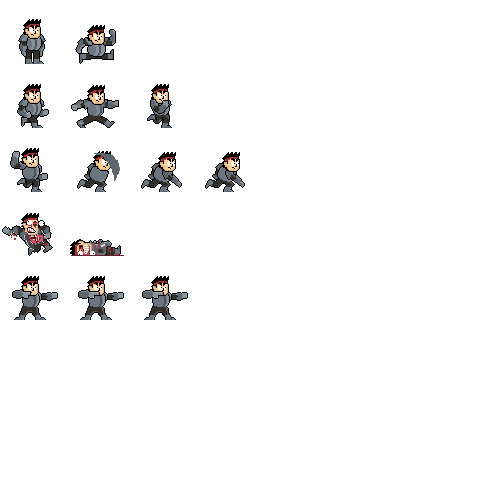
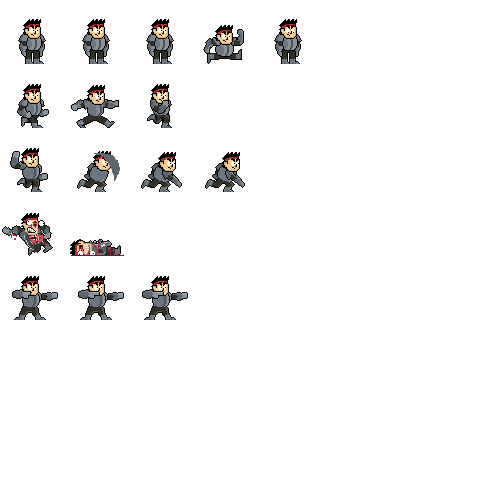
Amélioration des entités

diff --git a/platformer/javascript/world/MapObject.js b/platformer/javascript/world/MapObject.js
@@ -1,23 +1,35 @@
-function MapObject(level, x, y, width, height){
+function MapObject(level, x, y, width, height, renderWidth, renderHeight){
     Rectangle.call(this, x, y, width, height);
 
-    var self = this;
+    var DIRECTION_LEFT = 0;
+    var DIRECTION_RIGHT = 1;
+    var DIRECTION_UP = 2;
+    var DIRECTION_DOWN = 3;
 
-    var vx = 0,
-        vy = 0;
+    var self = this,
 
-    var gravityForce = 8;
+        vx = 0,
+        vy = 0,
 
-    var blockedLeft = false,
+        gravityForce = 8,
+
+        blockedLeft = false,
         blockedRight = false,
         blockedUp = false,
-        blockedDown = false;
+        blockedDown = false,
 
-    var falling = false;
-    var jumping = false;
-    var doubleJumping = false;
-    var canDoubleJump = false;
-    var canJump = true;
+        falling = false,
+        jumping = false,
+        doubleJumping = false,
+
+        canJump = true,
+
+        animation,
+
+        direction;
+
+    // liste des animations
+    this.animations = {};
 
     this.left = false;
     this.right = false;
@@ -45,11 +57,39 @@ function MapObject(level, x, y, width, height){
         self.y += platformer.math.toFloat(vy);
 
         fixBounds();
+
+        if(animation.canSkipAnimation()) this.animate();
+
+        if(animation != undefined){
+            animation.update();
+        }
+    }
+
+    this.init = function(){
+        for(var i in this.animations){
+            this.animations[i].init();
+        }
+
+        this.setAnimation(this.animations[Object.keys(this.animations)[0]]);
+    }
+
+    this.animate = function(){
+        // change animations
     }
 
     this.render = function(ctx, panX, panY){
-        ctx.fillStyle = 'purple';
-        ctx.fillRect(this.x - panX, this.y - panY, this.width, this.height);
+        var renderBox = this.getRenderBox();
+        var posX = (direction == 0) ? (renderBox.x + renderBox.width - panX) * -1 : renderBox.x - panX;
+
+        ctx.save();
+        ctx.scale((direction == 0) ? -1 : 1, 1);
+        ctx.drawImage(animation.getFrame() , posX, renderBox.y - panY, renderBox.width, renderBox.height);
+        ctx.restore();
+    }
+
+    this.draw = function(ctx, panX, panY){
+        ctx.strokeStyle = '#D9828C';
+        ctx.strokeRect(this.x - panX, this.y - panY, this.width, this.height);
     }
 
     function fixBounds(){
@@ -267,6 +307,24 @@ function MapObject(level, x, y, width, height){
         return (x >= 0 && x < map.getNumCols() && y >= 0 && y < map.getNumRows()) ? map.getTilemap()[x][y] : undefined;
     }
 
+    // setters
+
+    this.setAnimation = function(tmp){
+        if(tmp.constructor.name == 'Animation' && (typeof animation === 'undefined' || animation.getID() != tmp.getID())){
+            animation = tmp;
+        }
+    }
+    this.setDirection = function(d){
+        direction = d;
+    }
+
+    this.spawn = function(p){
+        this.x = p.x * platformer.tileSizeX;
+        this.y = p.y * platformer.tileSizeY + platformer.tileSizeY - this.height;
+    }
+
+    // getters
+
     this.isBlockedLeft = function(){ return blockedLeft; }
     this.isBlockedRight = function(){ return blockedRight; }
     this.isBlockedUp = function(){ return blockedUp; }
@@ -274,4 +332,9 @@ function MapObject(level, x, y, width, height){
 
     this.isFalling = function(){ return falling; }
     this.isJumping = function(){ return jumping; }
+    this.isDoubleJumping = function(){ return doubleJumping; }
+
+    this.getDirection = function(){ return direction; }
+
+    this.getRenderBox = function(){ return new Rectangle(this.x + this.width / 2 - renderWidth / 2, this.y + this.height - renderHeight, renderWidth, renderHeight); }
 }

diff --git a/platformer/javascript/entities/Player.js b/platformer/javascript/entities/Player.js
@@ -1,5 +1,5 @@
 function Player(level, position){
-    Entity.call(this, level, position, platformer.tileSizeX, platformer.tileSizeY);
+    Entity.call(this, level, position, 52, 80, 64 * platformer.scale, 64 * platformer.scale);
 
     this.property = {
         speed : 1,
@@ -11,6 +11,45 @@ function Player(level, position){
         doubleJumpHeight : 4
     };
 
+    this.animations = {
+        idle : new Animation('idle', platformer.textures.player.idle, 1000, { random : true }),
+        walking : new Animation('walking', platformer.textures.player.walking, 100),
+        jumping : new Animation('jumping', platformer.textures.player.jumping, 0),
+        doubleJumping : new Animation('doubleJumping', platformer.textures.player.jumping, 0, { loop : false, cancelable : true }),
+        falling : new Animation('falling', platformer.textures.player.falling, 1000),
+        deadIdle : new Animation('deadIdle', platformer.textures.player.deadIdle, 75, { loop : false, cancelable : false }),
+        deadFalling : new Animation('deadFalling', platformer.textures.player.deadFalling, 0, { loop : false, cancelable : true })
+    };
+
+    this.animate = function(){
+        if(!this.isDead()){
+            if(this.isJumping()){
+                this.setAnimation(this.animations.jumping);
+
+                if(this.isDoubleJumping()){
+                    this.setAnimation(this.animations.doubleJumping);
+                }
+            }
+            else if(this.isFalling()){
+                this.setAnimation(this.animations.falling);
+            }
+            else if(this.left || this.right){
+                this.setAnimation(this.animations.walking);
+            }
+            else{
+                this.setAnimation(this.animations.idle);
+            }
+        }
+        else{
+            if(this.isFalling()){
+                this.setAnimation(this.animations.deadFalling);
+            }
+            else{
+                this.setAnimation(this.animations.deadIdle);
+            }
+        }
+    }
+
     this.keyUp = function(key){
         if(key == platformer.keylist.mvt_left){
             this.left = false;
@@ -21,11 +60,20 @@ function Player(level, position){
     }
 
     this.keyDown = function(key){
-        if(key == platformer.keylist.mvt_left){
+        if(this.isDead()){
+            return;
+        }
+
+        if(key == platformer.keylist.action_attack){
+            this.setDead();
+        }
+        else if(key == platformer.keylist.mvt_left){
             this.left = true;
+            this.setDirection(0);
         }
         else if(key == platformer.keylist.mvt_right){
             this.right = true;
+            this.setDirection(1);
         }
         else if(key == platformer.keylist.mvt_up){
             this.setJumping();

diff --git a/platformer/javascript/entities/Entity.js b/platformer/javascript/entities/Entity.js
@@ -1,4 +1,15 @@
-function Entity(level, position, width, height){
-    MapObject.call(this, level, position.x * platformer.tileSizeX, position.y * platformer.tileSizeY, width, height);
+function Entity(level, position, width, height, renderWidth, renderHeight){
+    MapObject.call(this, level, position.x * platformer.tileSizeX, position.y * platformer.tileSizeY, width, height, renderWidth, renderHeight);
 
+    var dead = false;
+
+    this.setDead = function(){
+        dead = true;
+        vx = 0;
+        vy = 0;
+        this.left = false;
+        this.right = false;
+    }
+
+    this.isDead = function(){ return dead; }
 }
